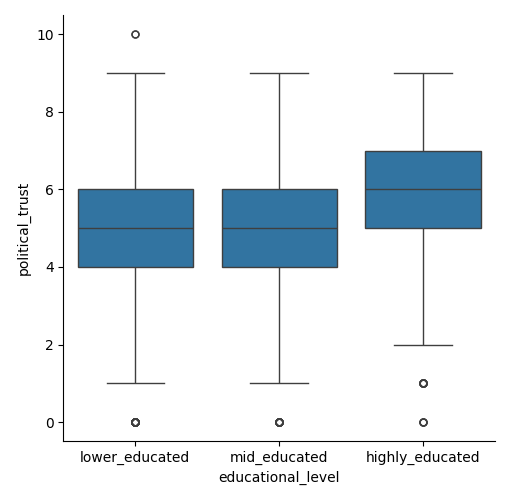
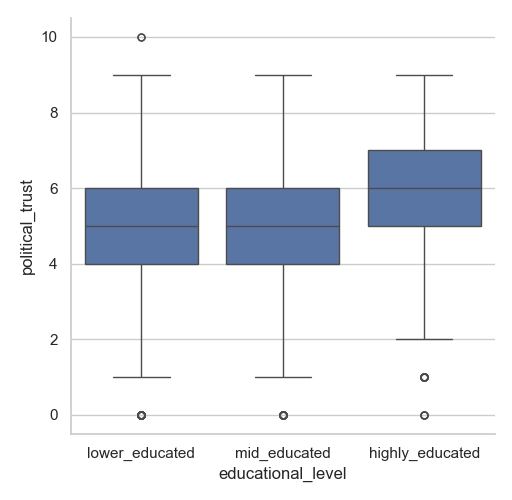
Update graphs; kneighbor file.

diff --git a/ESS11/data_analysis/descriptive_gender_piramid.py b/ESS11/data_analysis/descriptive_gender_piramid.py
@@ -2,36 +2,47 @@ import pandas as pd
 import seaborn as sns
 import matplotlib.pyplot as plt
 
-path = "/ESS11/archive/data_NL_transf_kneighbor_v3.csv"
+path = 'C:\Python homedirectory\Portfolio_git\ESS11\data\processed\data_NL_transf_kneighbor.csv'
 df = pd.read_csv(path, index_col=0)
 
 df_pol = df.loc[:, ['age', 'gender', 'education', 'educational_level', 'activity_work', 'voted', 'political_trust']]
 
-#todo Group age in categories for plot
+#Create age groups for plot
+age_bins = [0, 17, 24, 34, 44, 54, 64, 74, 120]
+age_labels = ['0-17', '18-24', '25-34', '35-44', '45-54', '55-64', '65-74', '75+']
+
+# Create a new column for age groups
+df_pol['age_group'] = pd.cut(df_pol['age'], bins=age_bins, labels=age_labels, right=True)
+
+# Verify the result
+print(df_pol[['age', 'age_group']].head())
+
+# Count age group occurrences
+age_distribution = df_pol['age_group'].value_counts().sort_index()
+print(age_distribution)
 
 # Group the data by age and gender, calculate percentages
 age_gender = (
-    df_pol.groupby(['age', 'gender'])
+    df_pol.groupby(['age_group', 'gender'])
     .size()
     .reset_index(name='count')
-    .pivot(index='age', columns='gender', values='count')
-    .fillna(0)
+    .pivot(index='age_group', columns='gender', values='count')
 )
 
 # Convert counts to percentages
-age_gender_percent = age_gender.div(age_gender.sum(axis=1), axis=0) * 100
+# age_genderpercent = age_gender.div(age_gender.sum(axis=1), axis=0) * 100
 
 # Create the pyramid plot
 plt.figure(figsize=(12, 8))
 
 # Plot for category 1 (e.g., Female)
-plt.barh(age_gender_percent.index, -age_gender_percent['Female'], color='lightcoral', label='Female')
+plt.barh(age_gender.index, -age_gender['Female'], color='lightcoral', label='Female')
 
 # Plot for category 2 (e.g., Male)
-plt.barh(age_gender_percent.index, age_gender_percent['Male'], color='skyblue', label='Male')
+plt.barh(age_gender.index, age_gender['Male'], color='skyblue', label='Male')
 
 # Add labels
-plt.xlabel('Percentage')
+plt.xlabel('Count')
 plt.ylabel('Age')
 plt.title('Age Pyramid by Gender')
 plt.legend(loc='upper right')
@@ -39,5 +50,5 @@ plt.axvline(0, color='black', linewidth=0.5)  # Add a vertical line at 0
 
 # Show plot
 plt.tight_layout()
-plt.savefig(r'C:\Python homedirectory\Portfolio_git\ESS11\reports\figures\age.png')
-#plt.show()
+plt.savefig(r'C:\Python homedirectory\Portfolio_git\ESS11\reports\figures\age_pyramid_grouped.png')
+plt.show()

diff --git a/ESS11/data_analysis/descriptive_plots_refactor.py b/ESS11/data_analysis/descriptive_plots_refactor.py
@@ -3,7 +3,7 @@ import matplotlib.pyplot as plt
 import seaborn as sns
 from ESS11.utilities.functions import save_plot
 
-path = "/ESS11/archive/data_NL_transf_kneighbor_v3.csv"
+path = 'C:\Python homedirectory\Portfolio_git\ESS11\data\processed\data_NL_transf_kneighbor.csv'
 df = pd.read_csv(path, index_col=0)
 
 print(df.columns)
@@ -12,6 +12,9 @@ print(df.info())
  #Selection to work with
 df_pol = df.loc[:, ['age', 'gender', 'education', 'educational_level', 'activity_work', 'voted', 'political_trust']]
 
+# Convert 'educational_level' to an ordered categorical type
+order_eduplot = ['lower_educated', 'mid_educated', 'highly_educated']
+df_pol['educational_level'] = pd.Categorical(df_pol['educational_level'], categories=order_eduplot, ordered=True)
 
 ###############################################
 # Gender piechart
@@ -29,19 +32,18 @@ plt.pie(
 plt.title('Gender Distribution', fontsize=14)
 save_plot(r'C:\Python homedirectory\Portfolio_git\ESS11\reports\figures\gender.png')
 
-#Exploration plots
-# sns.set_theme(style='whitegrid')
-# plt.figure(figsize=(10, 6))
-# plot_categoricals = ['educational_level', 'voted']
-# print(df.voted.value_counts())
-#
-# for feature in plot_categoricals:
-#     sns.countplot(data=df_pol, x=feature,stat='percent')
-#     plt.show()
-#     plt.close()
-
-
+# Exploration plots
+sns.set_theme(style='whitegrid')
 plt.figure(figsize=(12, 8))
+
+plot_categoricals = ['educational_level']
+
+for feature in plot_categoricals:
+    sns.countplot(data=df_pol, x=feature,stat='percent')
+    plt.show()
+    plt.close()
+
+
 sns.histplot(data=df_pol, x='political_trust', stat='percent', kde=False, bins=10)
 plt.title('Distribution of Political Trust', fontsize=14)
 plt.xlabel('Political Trust', fontsize=12)
@@ -50,8 +52,7 @@ plt.tight_layout()
 save_plot(r'C:\Python homedirectory\Portfolio_git\ESS11\reports\figures\political_trust.png')
 
 #edu trust boxplot
-order_eduplot = ['lower_educated', 'mid_educated', 'highly_educated']
-sns.catplot(data=df_pol, x='educational_level', y='political_trust', kind='box', order=order_eduplot,)
+sns.catplot(data=df_pol, x='educational_level', y='political_trust', kind='box')
 save_plot(r'C:\Python homedirectory\Portfolio_git\ESS11\reports\figures\education_political_trust.png')
 
 #Lineplot relation education and trust

diff --git a/Explanatory_data_challenge/main.py b/Explanatory_data_challenge/main.py
@@ -1,0 +1,52 @@
+import pandas as pd
+from pandas.api.types import CategoricalDtype
+
+# RQ: Why are some countries more successful than other countries?
+## Do Standard of Living (GDP), population and politics matter?
+### Are come countries more successfull in Summer/Winter? Why?
+#### Are in some countries men/women more successful? why?
+##### Do traditions/national sports matter?
+
+df_dic = pd.read_csv(r"C:\Python homedirectory\udemy_panda_cursus\new_things_practice\Pandas_course\Course_Materials_Part3\Explanatory_DataAnalysis_Challenge\dictionary.csv")
+df_summer = pd.read_csv(r"C:\Python homedirectory\udemy_panda_cursus\new_things_practice\Pandas_course\Course_Materials_Part3\Explanatory_DataAnalysis_Challenge\summer.csv")
+df_winter = pd.read_csv(r"C:\Python homedirectory\udemy_panda_cursus\new_things_practice\Pandas_course\Course_Materials_Part3\Explanatory_DataAnalysis_Challenge\winter.csv")
+
+# Data import and inspection
+df_dic.info()
+df_summer.info()
+df_winter.info()
+# TODO Merging and concatenating
+df_winter['Edition'] = 'Winter'
+df_summer['Edition'] = 'Summer'
+df = pd.concat([df_summer, df_winter])
+
+#Function to add full country name
+from Explanatory_data_challenge..pandas_opdr.Explanatory_data_challenge.functions import *
+replace_country(df, df_dic, "Country_Name","Country", 'Code', 'Country')
+df = df.rename(columns={"Country":"Code", "Country_Name":"Country"})
+
+#TODO Data Cleaning
+df.info()
+print(df.isna().sum())
+
+#print Codes for missing Countries
+print(df.Code.unique())
+missing_country_rows = df[df["Country"].isna()]
+print(missing_country_rows.Code.unique())
+
+# 6367 missings for Country; 4 for Code
+df["Country"] = df["Code"].map(country_codes).fillna(df["Country"])
+print(df.Country.nunique())
+
+#remove rows with missing country codes
+df = df.dropna()
+df.reset_index(drop=True)
+# Convert medal column into ordered categorical column Gold > Silver > Bronze
+medal_order = CategoricalDtype(categories=["Bronze", "Silver", "Gold"], ordered=True)
+
+# Convert the Medal column to an ordered categorical column
+df["Medal"] = df["Medal"].astype(medal_order)
+
+# Inspect the DataFrame
+print(df)
+print(df["Medal"].dtype)  # Verify the dtype is now "Categorical"

diff --git a/Explanatory_data_challenge/functions.py b/Explanatory_data_challenge/functions.py
@@ -1,0 +1,25 @@
+def replace_country(df, dictionary, column1, column2, key1, key2):
+    df[column1] = df[column2].map(dictionary.set_index(key1)[key2])
+
+
+
+country_codes = {
+    'ZZX': 'Mixed-teams 1896-1904',
+    'BOH': 'Bohemia',
+    'ANZ': 'Australasia',
+    'RU1': 'Russian Empire',
+    'TCH': 'Czechoslovakia',
+    'YUG': 'Yugoslavia',
+    'ROU': 'Romania',
+    'URS': 'Soviet Union',
+    'EUA': 'Unified Team of Germany',
+    'BWI': 'British West Indies',
+    'GDR': 'East Germany',
+    'FRG': 'West Germany',
+    'EUN': 'Unified Team',
+    'IOP': 'Independent Olympic Participants',
+    'SRB': 'Serbia',
+    'TTO': 'Trinidad and Tobago',
+    'MNE': 'Montenegro',
+    'SGP': 'Singapore'
+}
